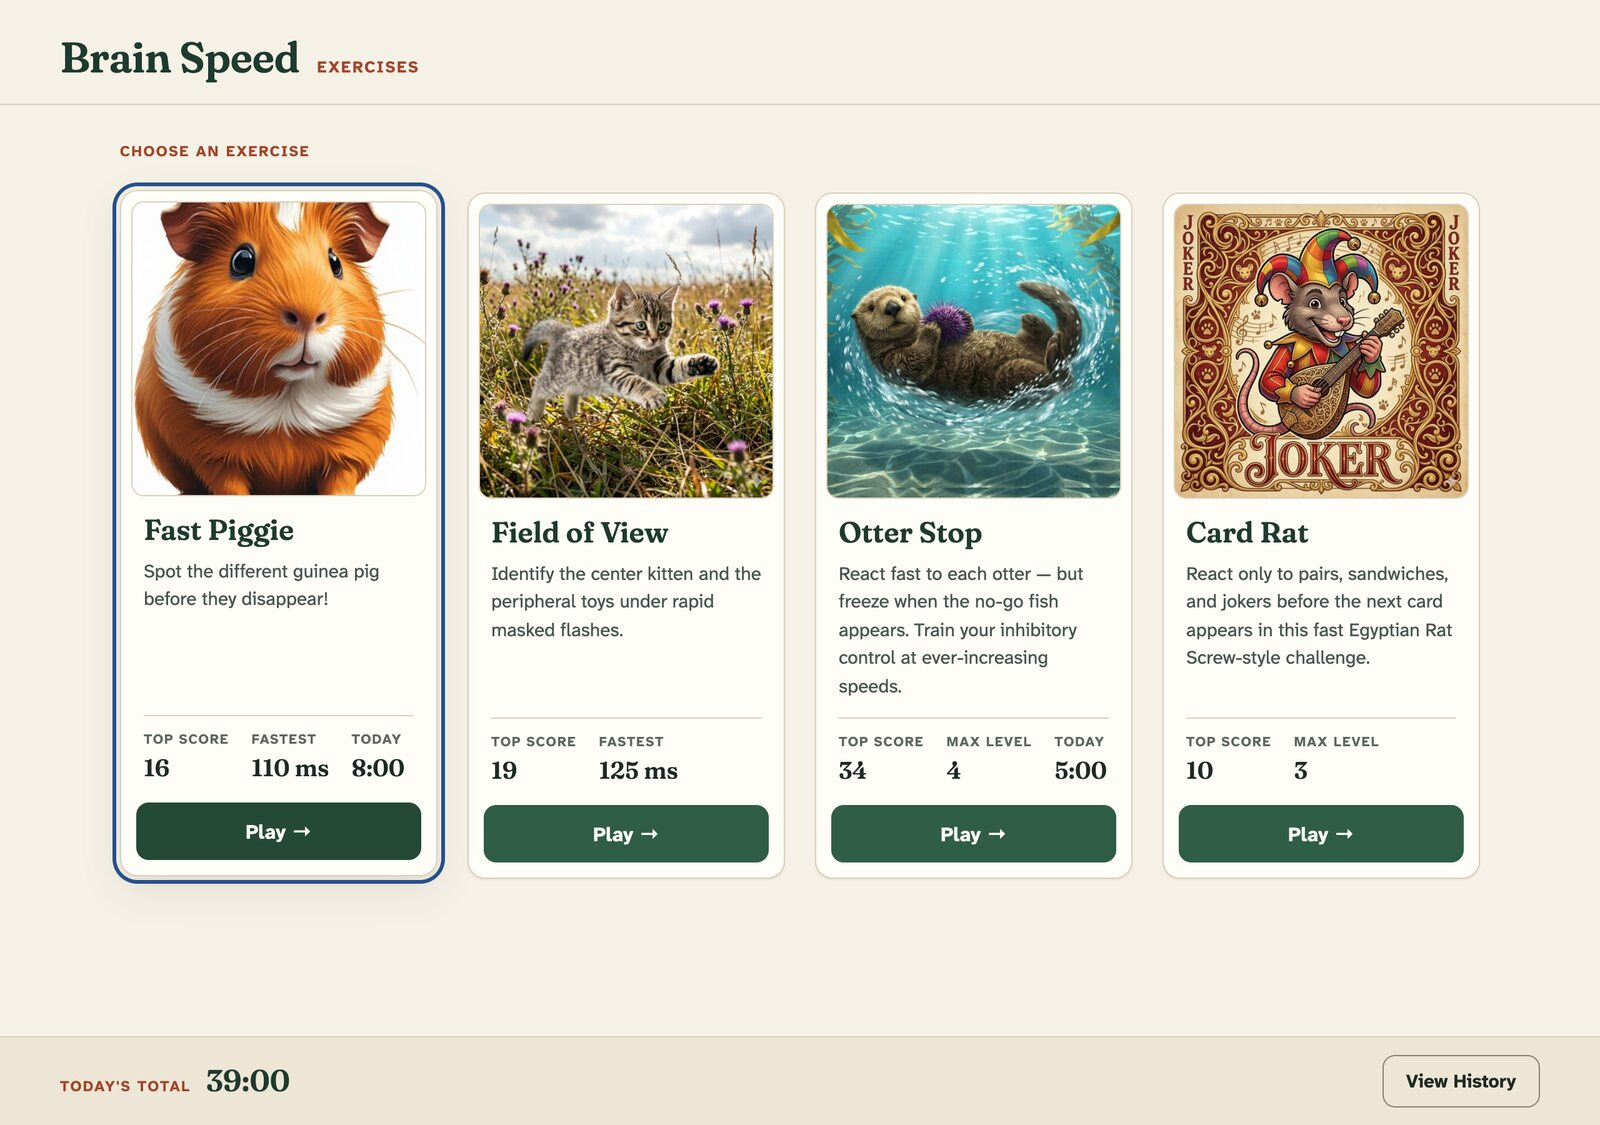
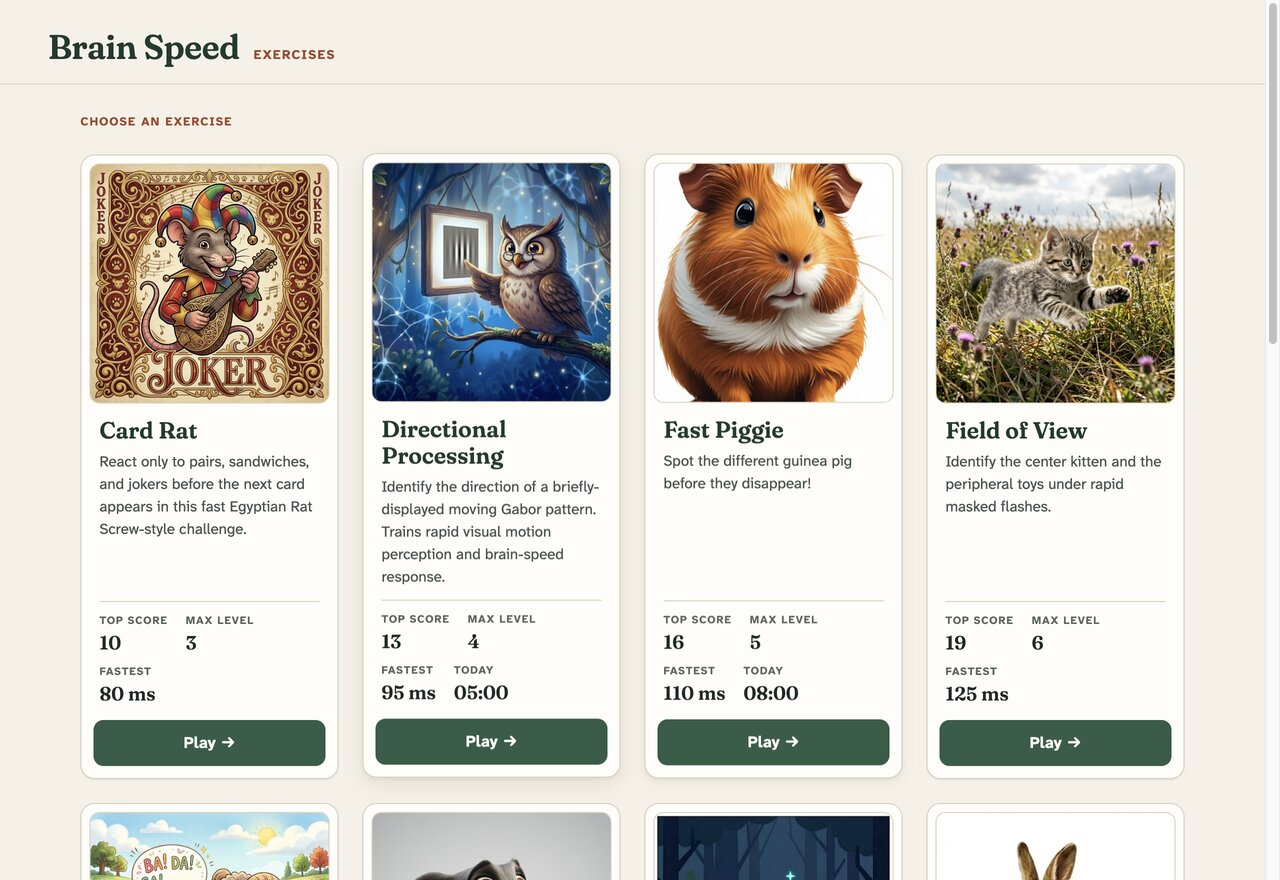
Show real app screenshots in the README
The README previews were rendered from the design mockup before the
redesign was built. Now that every screen is in the Field Notebook style,
they are real screenshots of the app at 1280x880: the menu, Fast Piggie in
play, a Fast Piggie tutorial step, and the History modal. They are JPEGs,
about 350 KB together. The mockup-only images (welcome, end panel, tokens)
are dropped.

The games section said "eight games" and its table left out Card Rat and
Fine Tuning; it now lists all ten.

Signed: Claude Code for Aaron Crosman

diff --git a/README.md b/README.md
@@ -8,24 +8,26 @@ A desktop application for brain-speed training — pick a game, play it, and tra
 
 ## A Look Inside
 
-![The exercise menu: game cards with artwork, your best scores, and today's total play time](.github/readme/menu.jpg)
+![The exercise menu: a card for each game with its artwork, best scores, and a Play button](.github/readme/menu.jpg)
 
 <p>
-  <img src=".github/readme/in-game.png" alt="Fast Piggie in play: round, score, and display time above the circle of guinea pigs, with a speed trend chart below" width="49%">
-  <img src=".github/readme/tutorial.png" alt="A tutorial step that outlines each part of the game screen before you play" width="49%">
+  <img src=".github/readme/in-game.jpg" alt="Fast Piggie in play: round, score, display time, and session time above the circle of guinea pigs" width="49%">
+  <img src=".github/readme/tutorial.jpg" alt="A Fast Piggie tutorial step that outlines each part of the game screen before you play" width="49%">
 </p>
 
-![Play history: total play time per day and time spent in each game](.github/readme/history.png)
+![Play history: total play time per day, and time spent in each game per day](.github/readme/history.jpg)
 
 ## Games
 
-Brain Speed Exercises ships with eight games, each targeting a different cognitive skill:
+Brain Speed Exercises ships with ten games, each targeting a different cognitive skill:
 
 | Game | What it trains |
 | ---- | -------------- |
+| **Card Rat** | Processing speed and inhibition — react only to pairs, sandwiches, and jokers before the next card appears, in an Egyptian Rat Screw-style challenge. |
 | **Directional Processing** | Rapid visual motion perception — identify the direction of a briefly-displayed moving Gabor pattern. |
 | **Fast Piggie** | Visual attention — spot the different guinea pig before they disappear! |
 | **Field of View** | Split attention — identify the center kitten and the peripheral toys under rapid masked flashes. |
+| **Fine Tuning** | Speech-sound discrimination — hear a target syllable, then pick which of two quick sounds matched it, like "ba" versus "da", even in noise. |
 | **High Speed Memory** | Working memory — memorize the grid of cards, then find all 3 copies of the target card from memory. |
 | **Object Track** | Attention and visual memory — track multiple moving targets among identical distractors. |
 | **Orbit Sprite Memory** | Spatial memory — track where the target sprite appears around the circle, then pick its three positions. |
